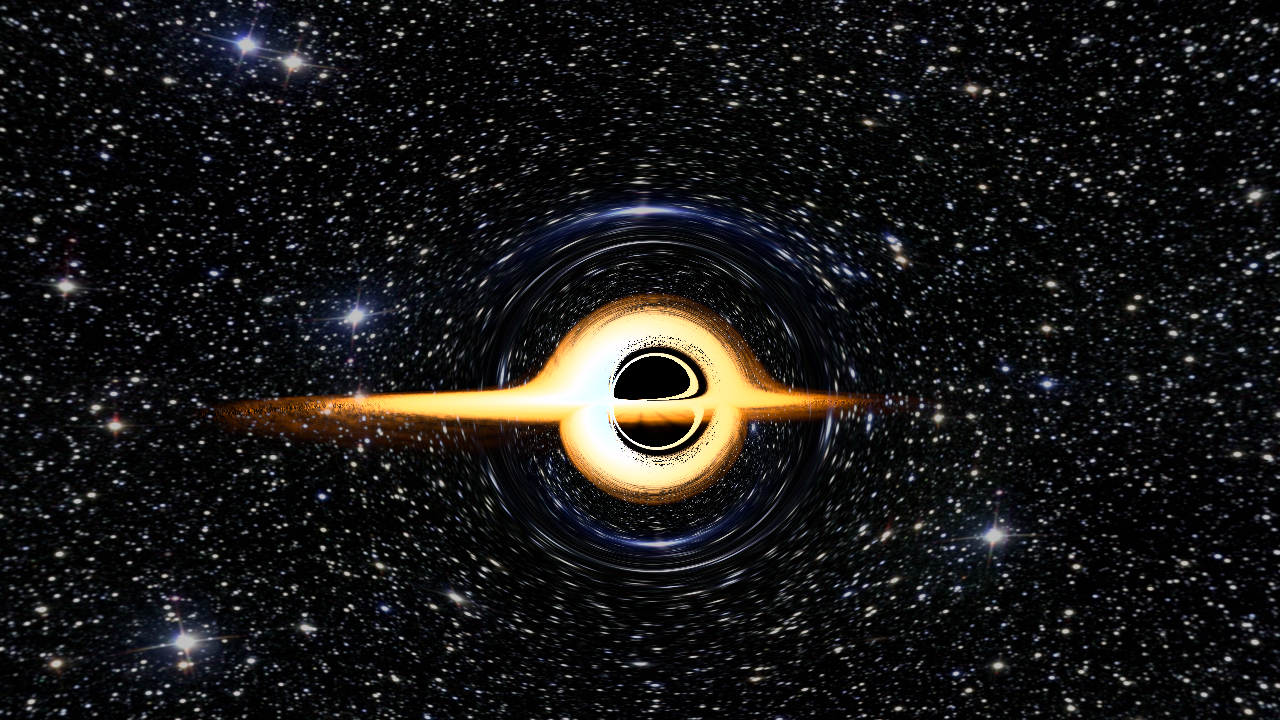
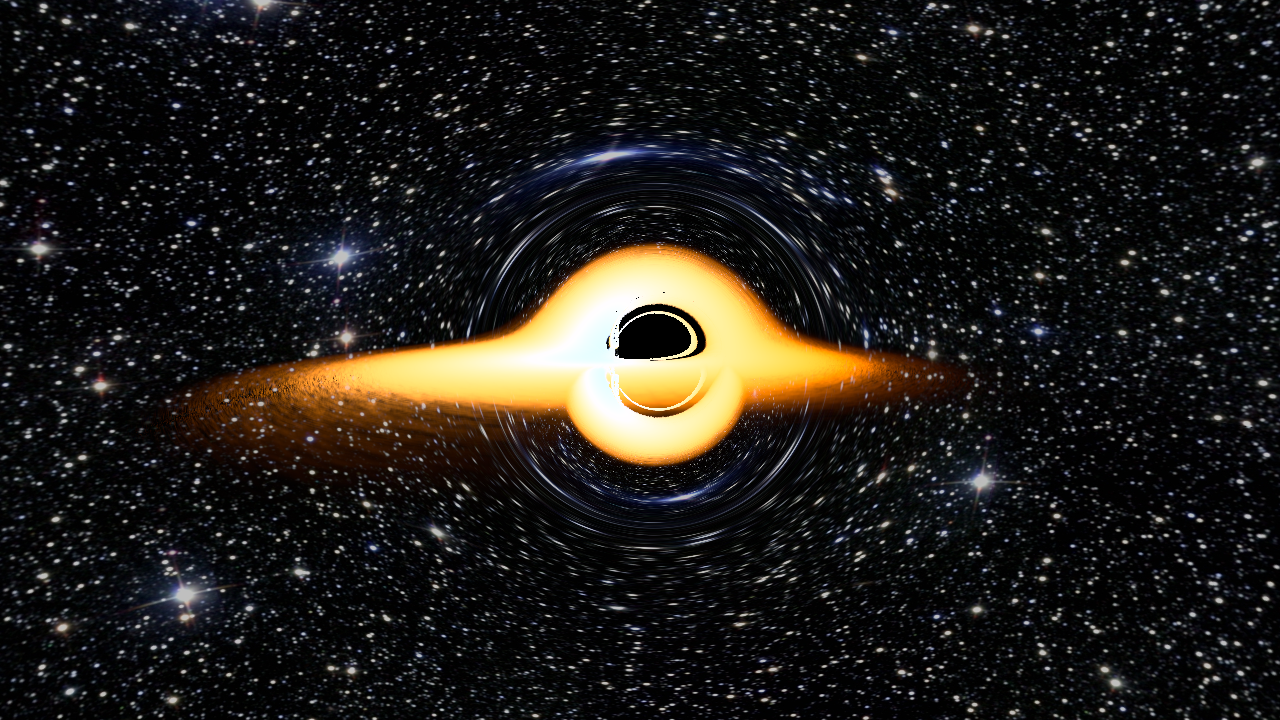
Ensure contrast of two background pixels against each other don't matter for supersampling.

diff --git a/src/rendering/raytracer.rs b/src/rendering/raytracer.rs
@@ -75,9 +75,15 @@ fn opacity_contrast(p: &CIETristimulus, q: &CIETristimulus) -> f64 {
     (p.alpha - q.alpha).abs()
 }
 
-/// Faintness gate: true if the brighter of the pair clears the floor (max keeps it symmetric).
+/// Faintness gate for the contrast triggers: true if the brighter of the pair
+/// clears the floor (max keeps it symmetric). The floor is in linear CIE Y.
+/// Scenes park the emissive disc far above unit luminance (Y > 1e4), while the
+/// star-field background sits below ~1, so a floor of 1.0 keeps the disc fully
+/// but stops the high-frequency background from flooding the contrast trigger
+/// (it would otherwise flag ~all pixels). Class-change edges are not gated, so
+/// silhouettes and the shadow rim are unaffected.
 fn visible(p: &CIETristimulus, q: &CIETristimulus) -> bool {
-    let faint_floor = 1e-4;
+    let faint_floor = 1.0;
     p.y.max(q.y) > faint_floor
 }
 
@@ -226,10 +232,15 @@ impl<'a, G: Geometry> Raytracer<'a, G> {
                         (buffer.get(pixel_index), buffer.get(neighbor_index))
                     {
                         let is_visible = visible(&pixel.color, &neighbor.color);
+                        let both_background = pixel.ray_class == RayClass::Escaped
+                            && neighbor.ray_class == RayClass::Escaped;
                         if pixel.ray_class != neighbor.ray_class
-                            || (luminance_contrast(&pixel.color, &neighbor.color) > 0.15
+                            || (!both_background
+                                && (luminance_contrast(&pixel.color, &neighbor.color) > 0.15)
                                 && is_visible)
-                            || (opacity_contrast(&pixel.color, &neighbor.color) > 0.1 && is_visible)
+                            || (!both_background
+                                && (opacity_contrast(&pixel.color, &neighbor.color) > 0.1
+                                    && is_visible))
                         {
                             pixels_to_sample.push(PixelToSample {
                                 row,